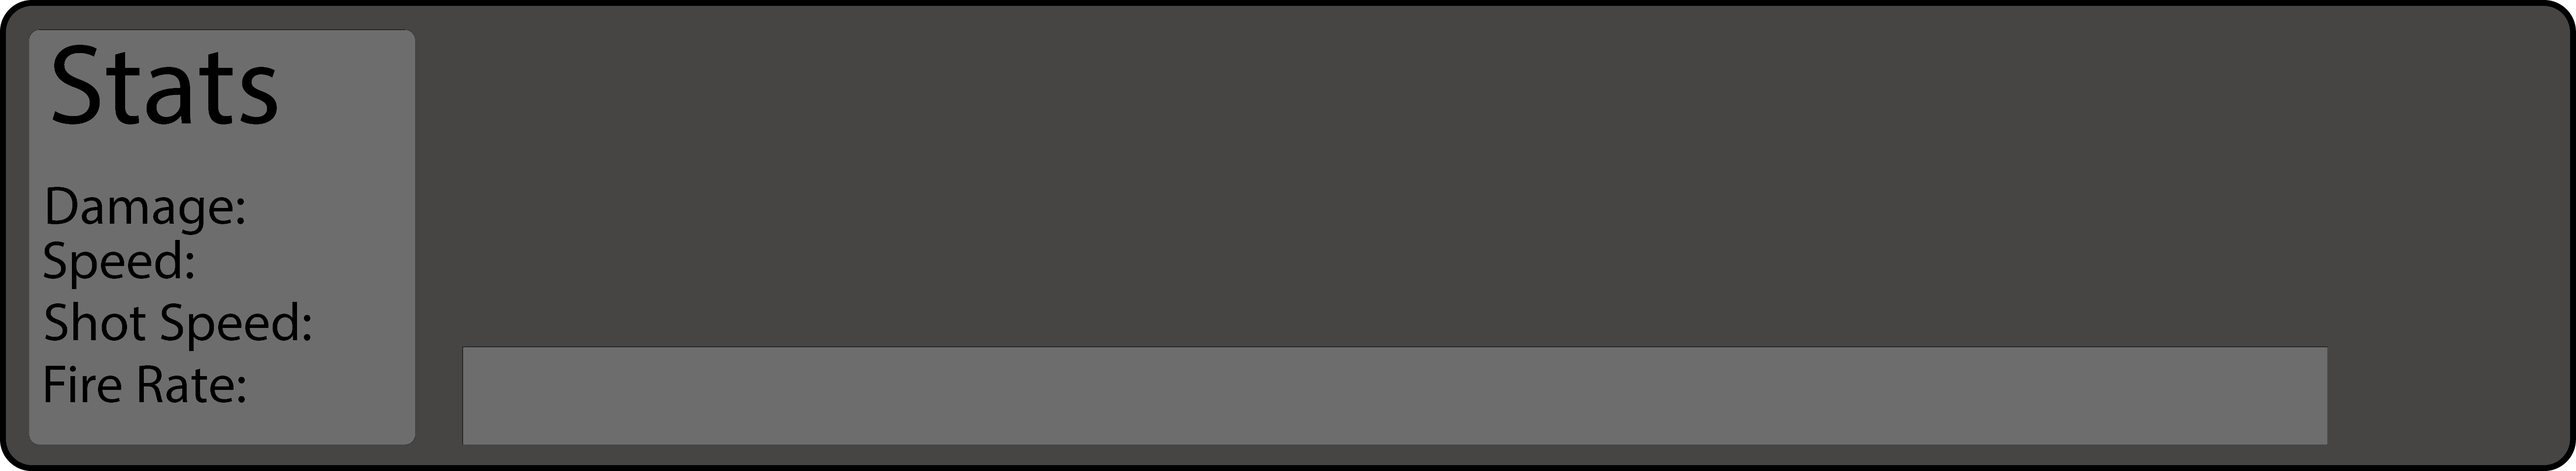
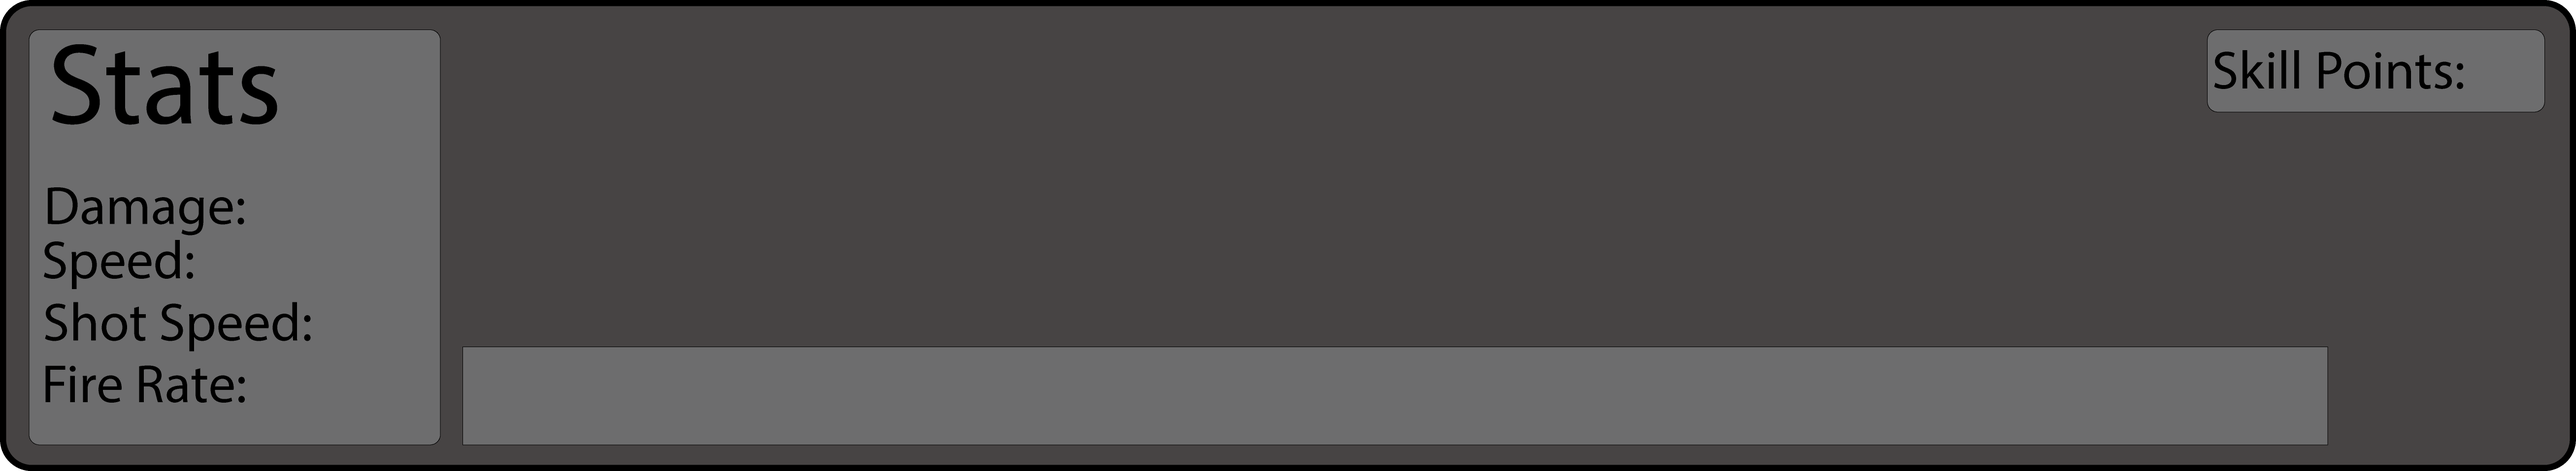
Added skillpoints to new UI, balanced some upgrades, made shooter enemy only shoot when player is within range, made skillpoints given every other wave

Changed region(s): [[0.8415, 0.0605, 0.9973, 0.2422], [0.1558, 0.0605, 0.187, 0.9384]]

diff --git a/Assets/Scripts/Enemy Related/ShooterEnemyBehaviour.cs b/Assets/Scripts/Enemy Related/ShooterEnemyBehaviour.cs
@@ -6,7 +6,7 @@ public class ShooterEnemyBehaviour : MonoBehaviour
     public float dropRate = 0.33f;
     public HealthPack healthPack;
     public int speed;
-    private float range;
+    public static float distance;
     private Player player;
     public int maxHealth = 20;
 
@@ -33,21 +33,13 @@ public class ShooterEnemyBehaviour : MonoBehaviour
 
     void Update()
     {
-        range = Vector2.Distance(transform.position, player.transform.position);
+        distance = Vector2.Distance(transform.position, player.transform.position);
         transform.position = Vector2.MoveTowards(transform.position, player.transform.position, speed * Time.deltaTime);
     }
-
-
-    
-    public int scoreValue = 150;
-    //private ScoreKeeper scoreKeeper;
-    //public AudioClip fireSound;
-    //public AudioClip deathSound;
     void Start()
     {
        
         Init();
-        //scoreKeeper = GameObject.Find("Score").GetComponent<ScoreKeeper>();
         
     }
     void OnCollisionEnter2D(Collision2D col)
@@ -80,8 +72,6 @@ public class ShooterEnemyBehaviour : MonoBehaviour
         {
             Instantiate(healthPack, new Vector3(transform.position.x, transform.position.y, transform.position.z), Quaternion.identity);
         }
-        //scoreKeeper.Score(scoreValue);
-        //AudioSource.PlayClipAtPoint(deathSound, transform.position);
     }
 
 }

diff --git a/Assets/Scripts/Enemy Related/EnemyCannon.cs b/Assets/Scripts/Enemy Related/EnemyCannon.cs
@@ -8,8 +8,11 @@ public class EnemyCannon : MonoBehaviour {
     public float speedOfLaser;
     public float firingRate = 0.5f;
     public float nextFire = 0.5f;
+    private ShooterEnemyBehaviour shooter;
+    public float shootingRange = 5f;
     // Use this for initialization
     void Start () {
+        //shooter = GameObject.FindObjectOfType<ShooterEnemyBehaviour>();
         player = GameObject.FindObjectOfType<Player>();
 	}
 	
@@ -32,9 +35,13 @@ public class EnemyCannon : MonoBehaviour {
 
     void ShootLaser()
     {
-        GameObject beam = Instantiate(enemyLaserPrefab, new Vector3(cannonExit.transform.position.x, cannonExit.transform.position.y, cannonExit.transform.position.z), Quaternion.identity) as GameObject;
-        beam.GetComponent<Rigidbody2D>().velocity = (dir * speedOfLaser);
-        //AudioSource.PlayClipAtPoint(fireSound, transform.position);
+        if(ShooterEnemyBehaviour.distance < shootingRange)
+        {
+            GameObject beam = Instantiate(enemyLaserPrefab, new Vector3(cannonExit.transform.position.x, cannonExit.transform.position.y, cannonExit.transform.position.z), Quaternion.identity) as GameObject;
+            beam.GetComponent<Rigidbody2D>().velocity = (dir * speedOfLaser);
+            //AudioSource.PlayClipAtPoint(fireSound, transform.position);
+        }
+
     }
 
 }

diff --git a/Assets/Scripts/Enemy Related/HealthPack.cs b/Assets/Scripts/Enemy Related/HealthPack.cs
@@ -11,11 +11,12 @@ public class HealthPack : MonoBehaviour {
 
     private Color color;
     private HealthController healthController;
-   
+    private float initializationTime;
     public int amountOfHealing = 2;
     public bool canHeal;
 	// Use this for initialization
 	void Start () {
+        initializationTime = Time.timeSinceLevelLoad;
         renderer = GetComponent<SpriteRenderer>();
         color = renderer.color;
         //so healthpacks dont remain for the entire game would be too op
@@ -25,7 +26,9 @@ public class HealthPack : MonoBehaviour {
 	
 	// Update is called once per frame
 	void Update () {
-	    if (healthController.currentHealth + amountOfHealing > healthController.maxHealth)
+        float timeSinceInitialization = Time.timeSinceLevelLoad - initializationTime;
+
+        if (healthController.currentHealth + amountOfHealing > healthController.maxHealth)
         {
             canHeal = false;
         }
@@ -33,7 +36,7 @@ public class HealthPack : MonoBehaviour {
         {
             canHeal = true;
         }
-        if(Time.time> (timeAlive / 2))
+        if(timeSinceInitialization > (timeAlive / 2))
         {
             Fade();
         }

diff --git a/Assets/Entities/Player/Player.cs b/Assets/Entities/Player/Player.cs
@@ -18,8 +18,8 @@ public class Player : MonoBehaviour {
     public static float speedOfLaser = 10;
     public static float firingRate = 1f;
     public static int damage = 2;
-    public static int skillPoints = 4;
-    public static int speed = 5;
+    public static int skillPoints = 999;
+    public static float speed = 5;
     public static int maxUpgrades = 5;
     public static int currentDamageUpgrades = 0;
     public static int currentMaxHealthUpgrades = 0;

diff --git a/Assets/Scripts/Enemy Related/WaveSpawner.cs b/Assets/Scripts/Enemy Related/WaveSpawner.cs
@@ -135,7 +135,11 @@ public class WaveSpawner : MonoBehaviour {
         Debug.Log("Wave completed!");   
         state = SpawnState.COUNTING;
         waveCountDown = timeBetweenWaves;
-        Player.skillPoints++;
+        if(nextWave % 2 != 0)
+        {
+            Player.skillPoints++;
+        }
+        
         Debug.Log("Skillpoints: " + Player.skillPoints);
         if(nextWave + 1> waves.Length-1)
         {

diff --git a/Assets/Scripts/Player Related/UpgradeManager.cs b/Assets/Scripts/Player Related/UpgradeManager.cs
@@ -23,7 +23,7 @@ public class UpgradeManager : MonoBehaviour {
             Player.skillPoints--;
         }
     }
-    public void IncreaseSpeed(int _speed)
+    public void IncreaseSpeed(float _speed)
     {
         if (Player.skillPoints > 0 && Player.currentSpeedUpgrades < Player.maxUpgrades)
         {

diff --git a/Assets/Scripts/Player Related/SkillText.cs b/Assets/Scripts/Player Related/SkillText.cs
@@ -13,6 +13,6 @@ public class SkillText : MonoBehaviour {
 	
 	// Update is called once per frame
 	void Update () {
-        skillText.text = "Skillpoints: " + Player.skillPoints.ToString();
+        skillText.text = Player.skillPoints.ToString();
 	}
 }
